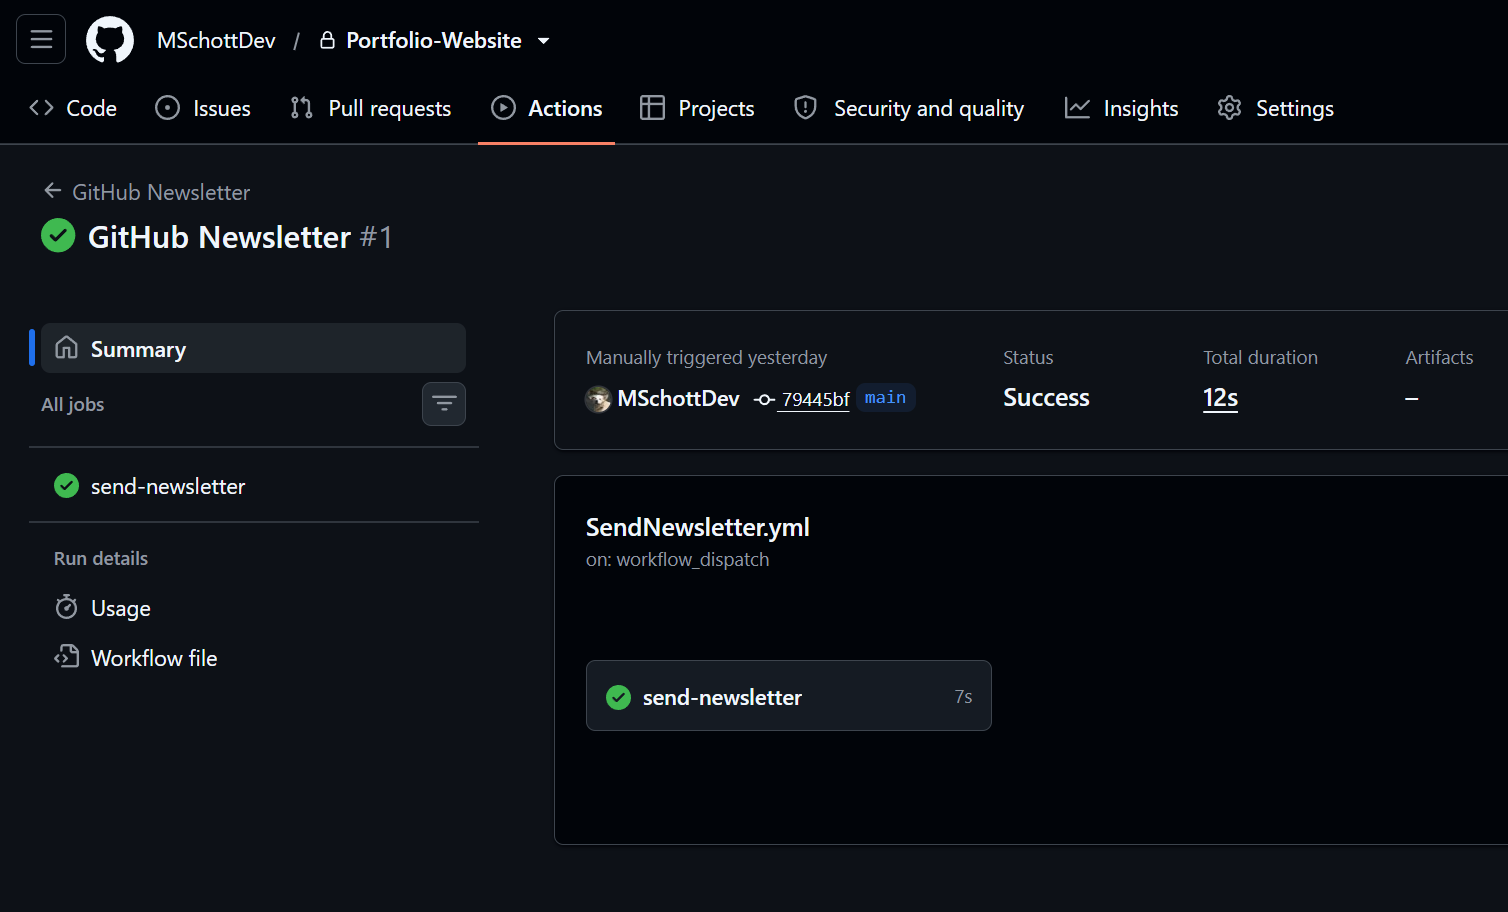
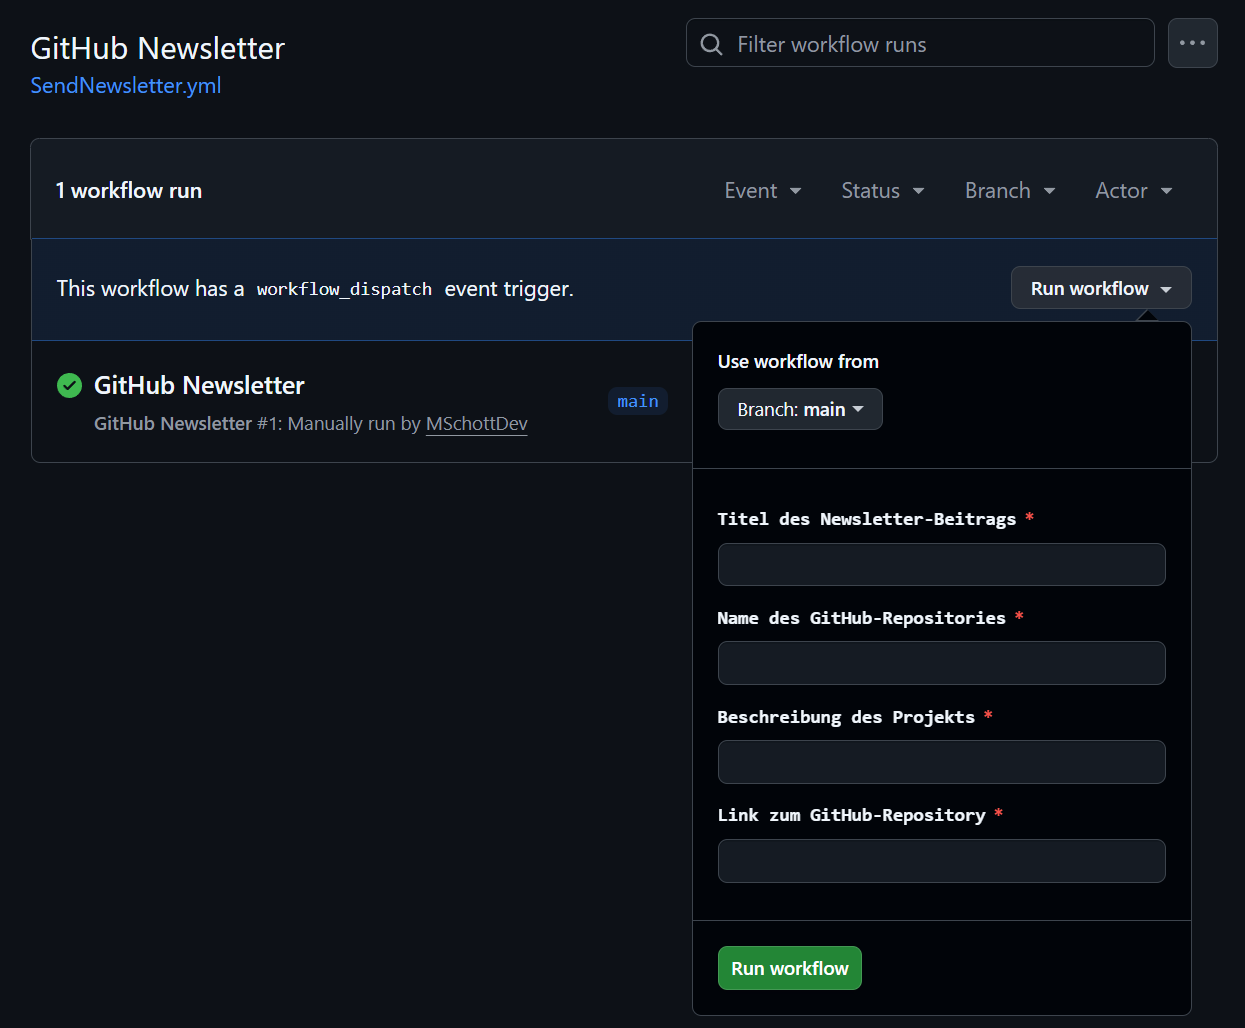
fix: pic issue in gallery

diff --git a/project_portfolio.html b/project_portfolio.html
@@ -451,7 +451,7 @@
             <!-- Bild 3 -->
 
             <button class="gallery-item"
-                    data-image="images/projects/portfolio/projectsDetail.png.png"
+                    data-image="images/projects/portfolio/projectsDetail.png"
                     data-title="Projekt-Detailseite">
 
                 <img src="images/projects/portfolio/projectsDetail.png"
